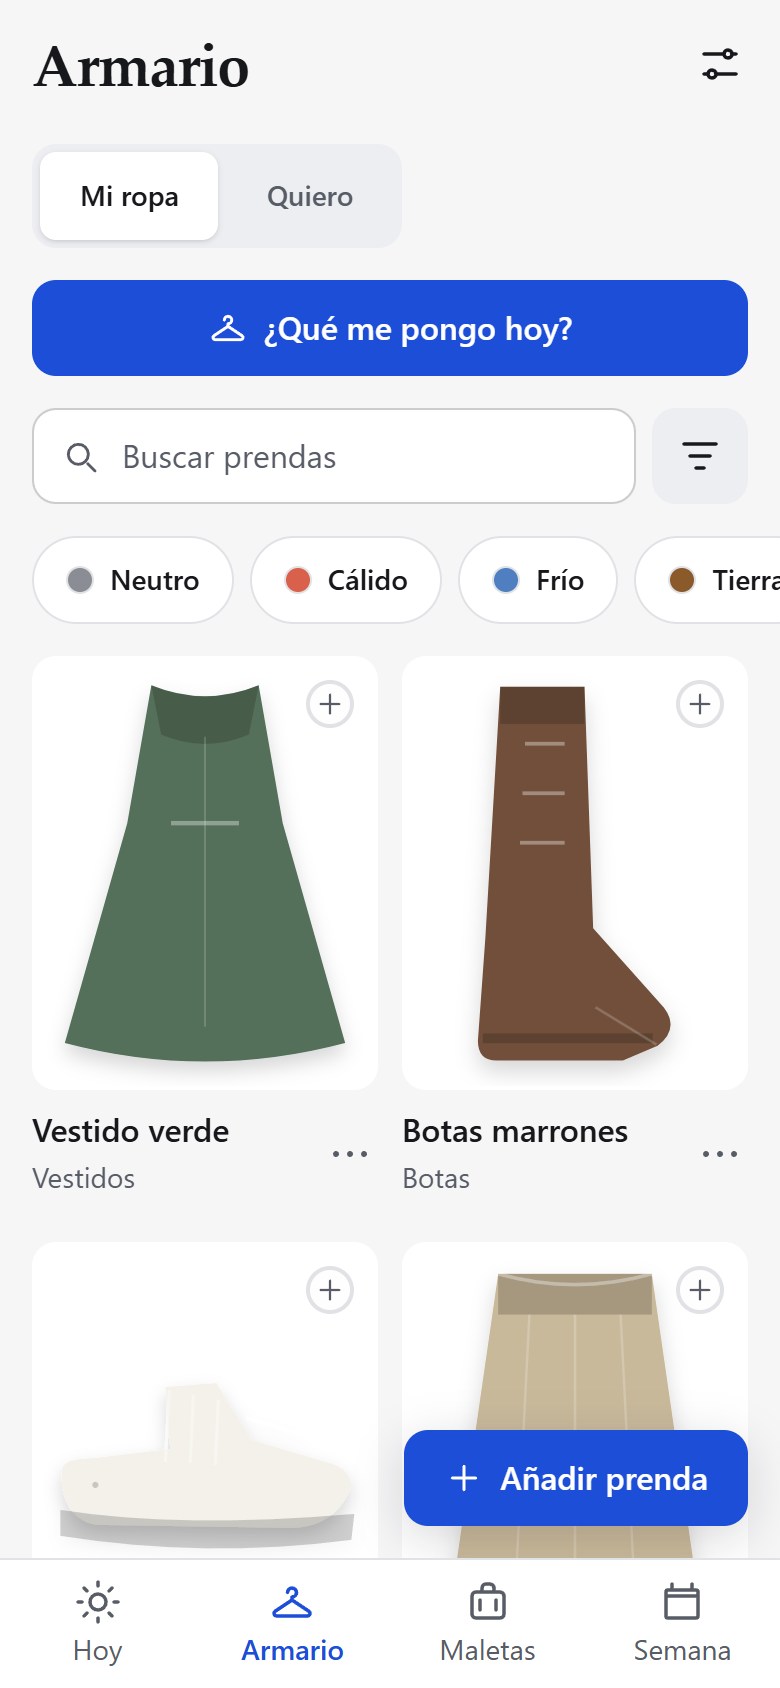
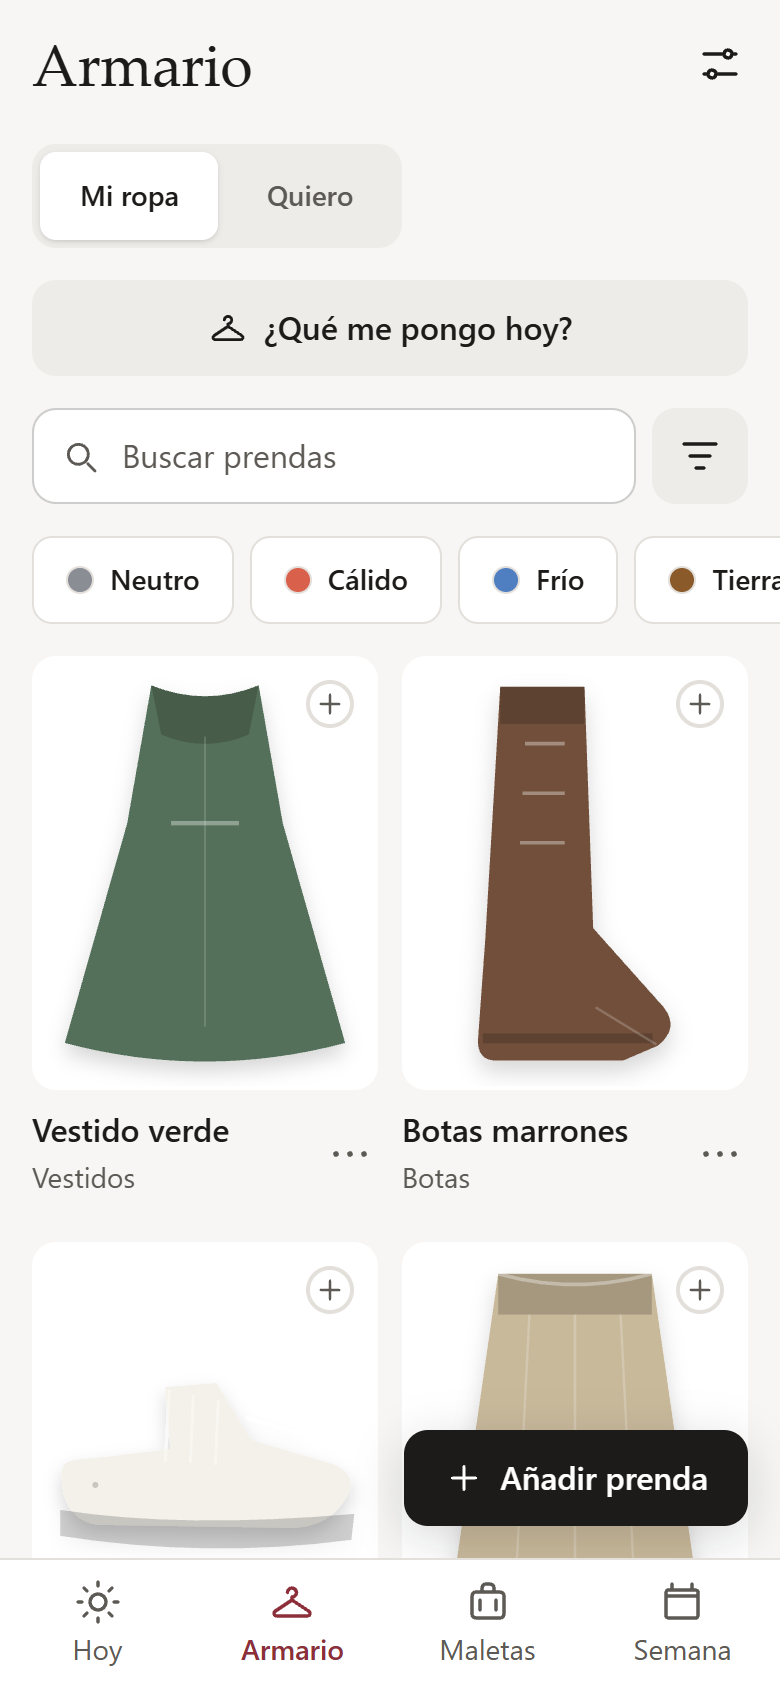
Pule la interfaz: tinta para la acción principal y granate solo en la selección
- Acento granate de hilo (#8c2f3a / #e08a92) en lugar del azul por defecto de Tailwind; el botón principal pasa a tinta
- Neutros apenas cálidos, como papel de patrón
- «¿Qué me pongo hoy?» como botón secundario: una sola acción principal por pantalla
- Filtros y valoraciones con radio de control (10 px) en vez de pastilla
- Titulares serif en 500 sin tracking negativo; sin etiquetas en mayúsculas espaciadas
- Etiquetas de la ficha como texto tranquilo; la hoja de Hoy no repite «Hoy»
- Capturas regeneradas con el e2e

diff --git a/src/index.css b/src/index.css
@@ -1,12 +1,13 @@
 /* Hallmark · shape: app screen · genre: modern-minimal · theme: custom
- * paper: #f6f6f7 · accent: #1d4ed8 · display: system-ui · body: system-ui
+ * paper: #f7f6f4 · accent: #8c2f3a (granate de hilo), primario: tinta · display: system-ui · body: system-ui
  * nav: tab bar abajo en móvil, pestañas en la cabecera en escritorio · signature: la rejilla de prendas · states: loading, empty, full
  * waive: 28a, las miniaturas de la rejilla siguen en carga diferida (arreglo de la auditoría)
  * axes: light+dark/sans/cobalt · posture: tool · contrast: pass · v2.0.0 */
 /* Hallmark · pre-emit critique: P4 H4 E4 S4 R4 V3 · weakest: V, la personalidad la ponen las fotos y no el marco, a propósito */
 @import "tailwindcss";
 
-/* Perletta. El marco es neutro, el color lo pone la ropa. Un acento para la acción principal y la selección.
+/* Perletta. El marco es neutro, apenas cálido como el papel de patrón; el color lo pone la ropa.
+   La acción principal va en tinta; el granate de hilo marca solo la selección y lo activo.
    Radios: 12 px en controles y fotos, 24 px en hojas, redondo en botones de icono y filtros. */
 @theme {
   --font-sans: system-ui, -apple-system, "Segoe UI", Roboto, sans-serif;
@@ -21,6 +22,8 @@
   --color-linea: var(--linea);
   --color-acento: var(--acento);
   --color-sobre-acento: var(--sobre-acento);
+  --color-primario: var(--primario);
+  --color-sobre-primario: var(--sobre-primario);
   --color-peligro: var(--peligro);
   --color-velo: var(--velo);
   --ease-suave: cubic-bezier(0.2, 0.8, 0.2, 1);
@@ -28,15 +31,17 @@
 }
 
 :root {
-  --papel: #f6f6f7;
+  --papel: #f7f6f4;
   --superficie: #ffffff;
-  --lamina: #eceef1;
+  --lamina: #eeece8;
   --foto: #ffffff;
-  --tinta: #17181b;
-  --tenue: #585c66;
-  --linea: #e0e2e6;
-  --acento: #1d4ed8;
+  --tinta: #1c1b19;
+  --tenue: #5d5a55;
+  --linea: #e3e0db;
+  --acento: #8c2f3a;
   --sobre-acento: #ffffff;
+  --primario: #1c1b19;
+  --sobre-primario: #ffffff;
   --peligro: #b3261e;
   --velo: rgb(10 12 16 / 0.45);
   --sombra: 0 6px 24px rgb(10 12 16 / 0.16);
@@ -44,15 +49,17 @@
 }
 
 :root.modo-oscuro {
-  --papel: #0f1012;
-  --superficie: #191b1e;
-  --lamina: #25282c;
-  --foto: #3b3f46;
-  --tinta: #f0f1f3;
-  --tenue: #a6abb4;
-  --linea: #2e3136;
-  --acento: #8ab0ff;
-  --sobre-acento: #0b1530;
+  --papel: #11100f;
+  --superficie: #1b1a18;
+  --lamina: #272523;
+  --foto: #3d3a36;
+  --tinta: #f1efea;
+  --tenue: #aaa59e;
+  --linea: #302d2a;
+  --acento: #e08a92;
+  --sobre-acento: #2a0f13;
+  --primario: #f1efea;
+  --sobre-primario: #1c1b19;
   --peligro: #ff8a80;
   --velo: rgb(0 0 0 / 0.65);
   --sombra: 0 6px 24px rgb(0 0 0 / 0.5);
@@ -133,8 +140,8 @@ body {
     white-space: nowrap;
   }
   .boton-primario {
-    background: var(--acento);
-    color: var(--sobre-acento);
+    background: var(--primario);
+    color: var(--sobre-primario);
   }
   .boton-secundario {
     background: var(--lamina);
@@ -186,6 +193,7 @@ body {
   }
   .titular {
     font-family: var(--font-display);
+    font-weight: 500;
     letter-spacing: -0.01em;
     text-wrap: balance;
   }
@@ -194,7 +202,7 @@ body {
     padding-right: 3rem;
     font-family: var(--font-display);
     font-size: 1.5rem;
-    font-weight: 700;
+    font-weight: 500;
     letter-spacing: -0.01em;
     line-height: 1.25;
     overflow-wrap: break-word;

diff --git a/src/App.jsx b/src/App.jsx
@@ -39,7 +39,7 @@ function pintarTema(oscuro) {
   // Quitar 'media' evita que el navegador imponga el suyo y deje las dos etiquetas descoordinadas.
   document.querySelectorAll('meta[name="theme-color"]').forEach(meta => {
     meta.removeAttribute('media')
-    meta.setAttribute('content', oscuro ? '#0f1012' : '#f6f6f7')
+    meta.setAttribute('content', oscuro ? '#11100f' : '#f7f6f4')
   })
 }
 
@@ -420,7 +420,7 @@ function Armario({ sesion }) {
       <div className="h-full flex flex-col" inert={!!(modalActivo || dialogoGlobal)}>
         <header className="shrink-0 pt-safe md:border-b md:border-linea md:bg-superficie">
           <div className="max-w-6xl mx-auto px-4 md:px-8 h-16 flex items-center justify-between gap-4">
-            <h1 className="titular min-w-0 text-[1.85rem] md:text-2xl font-bold tracking-tight">
+            <h1 className="titular min-w-0 text-[1.85rem] md:text-2xl">
               <span className="md:hidden"><TituloSeccion respaldo={pestañaActiva} /></span>
               <span className="hidden md:inline">Perletta</span>
             </h1>
@@ -442,7 +442,7 @@ function Armario({ sesion }) {
         <main className="flex-1 min-h-0 w-full max-w-6xl mx-auto overflow-hidden">
           <div ref={pistaRef} className="flex w-[300%] h-full">
             <section aria-label="Armario" inert={pestañaActiva !== 'ropa'} className={panel}>
-              <h2 className="titular max-md:sr-only shrink-0 text-3xl font-bold tracking-tight min-h-12 mb-5">Armario</h2>
+              <h2 className="titular max-md:sr-only shrink-0 text-3xl min-h-12 mb-5">Armario</h2>
               <GaleriaArmario limpiarSeleccion={outfitsGuardados} onCrearConjunto={iniciarCreacionConjunto} onEditarPrenda={iniciarEdicion} onAbrirFicha={abrirFicha} onQueMePongo={() => { setPrendaFijada(null); abrirModal('que_me_pongo'); vibrar(30) }} onAnadirPrenda={() => { setModoDeseo(false); abrirModal('formulario'); vibrar(30) }} onAnadirDeseo={() => { setModoDeseo(true); abrirModal('formulario'); vibrar(30) }} onVerOutfitsDeseo={(d) => { setDeseoElegido(d); abrirModal('deseo_outfits'); vibrar(20) }} onAbrirFiltros={() => abrirModal('filtros')} onQuitarFiltro={() => setFiltroActual(null)} mostrarToast={mostrarToast} filtroCategoria={filtroActual} setDialogoGlobal={solicitarConfirmacionGlobal} onCambio={recargarVistas} />
             </section>
             <section aria-label="Maletas" inert={pestañaActiva !== 'conjuntos'} className={panel}>

diff --git a/src/components/VistaSemanas.jsx b/src/components/VistaSemanas.jsx
@@ -301,7 +301,7 @@ export default function VistaSemanas({ activa = false, recarga = 0, onCrearSeman
               <Icono nombre="volver" />
             </button>
             <h2 className="flex-1 min-w-0 flex">
-              {nombreEditable('semana', semanaActiva.id, semanaActiva.nombre, 'titular min-h-11 max-w-full text-2xl md:text-3xl font-bold tracking-tight')}
+              {nombreEditable('semana', semanaActiva.id, semanaActiva.nombre, 'titular min-h-11 max-w-full text-2xl md:text-3xl')}
             </h2>
             <button onClick={eliminarSemana} aria-label={`Eliminar ${semanaActiva.nombre}`} className="boton-icono -mr-2">
               <Icono nombre="borrar" />
@@ -326,8 +326,8 @@ export default function VistaSemanas({ activa = false, recarga = 0, onCrearSeman
                     activo ? 'bg-acento text-sobre-acento font-semibold' : 'bg-lamina text-tinta'
                   }`}
                 >
-                  <span className="uppercase tracking-wide">{DIAS[i]}</span>
-                  <span className="text-base font-bold leading-none">{dia.getDate()}</span>
+                  <span>{DIAS[i]}</span>
+                  <span className="text-base font-semibold leading-none tabular-nums">{dia.getDate()}</span>
                   <span className={`w-1 h-1 rounded-full ${lleno ? (activo ? 'bg-sobre-acento' : 'bg-acento') : 'bg-transparent'}`} />
                 </button>
               )
@@ -336,7 +336,7 @@ export default function VistaSemanas({ activa = false, recarga = 0, onCrearSeman
         </div>
       ) : (
         <>
-          <h2 className="titular max-md:sr-only shrink-0 text-3xl font-bold tracking-tight min-h-12 mb-5">Semana</h2>
+          <h2 className="titular max-md:sr-only shrink-0 text-3xl min-h-12 mb-5">Semana</h2>
           <BotonQueMePongo onClick={onQueMePongo} className="mb-4 md:self-start" />
         </>
       )}

diff --git a/src/components/Estadisticas.jsx b/src/components/Estadisticas.jsx
@@ -27,7 +27,7 @@ function Fila({ prenda, dato, children }) {
 function Bloque({ titulo, vacio, hijos, children }) {
   return (
     <section className="flex flex-col gap-1">
-      <h3 className="text-lg font-bold">{titulo}</h3>
+      <h3 className="text-lg font-semibold">{titulo}</h3>
       {hijos === 0 ? <p className="text-sm text-tenue">{vacio}</p> : <ul className="divide-y divide-linea">{children}</ul>}
     </section>
   )
@@ -87,7 +87,7 @@ export default function Estadisticas({ mostrarToast, onProponer, onCambio }) {
       <div className="grid grid-cols-3 gap-2">
         {[['Prendas', e.total], ['Usos', e.usosTotales], ['Invertido', e.conPrecio ? dinero(e.inversion) : '—']].map(([etiqueta, valor]) => (
           <div key={etiqueta} className="rounded-xl bg-lamina p-3 text-center">
-            <p className="text-xl font-bold tabular-nums">{valor}</p>
+            <p className="text-xl font-semibold tabular-nums">{valor}</p>
             <p className="text-xs text-tenue">{etiqueta}</p>
           </div>
         ))}
@@ -96,7 +96,7 @@ export default function Estadisticas({ mostrarToast, onProponer, onCambio }) {
 
       {huecos.length > 0 && (
         <section className="flex flex-col gap-2" aria-labelledby="huecos-titulo">
-          <h3 id="huecos-titulo" className="text-lg font-bold">Huecos del armario</h3>
+          <h3 id="huecos-titulo" className="text-lg font-semibold">Huecos del armario</h3>
           <ul className="rounded-xl bg-lamina divide-y divide-linea px-3">
             {huecos.map((h) => (
               <li key={`${h.hueco}-${h.color}`} className="flex items-center gap-3 py-2.5">

diff --git a/src/components/AsistenteMaleta.jsx b/src/components/AsistenteMaleta.jsx
@@ -21,7 +21,7 @@ const MANUAL = [
 ]
 
 const chip = (activo) =>
-  `shrink-0 min-h-11 px-4 rounded-full border text-sm font-medium whitespace-nowrap ${activo ? 'bg-acento text-sobre-acento border-acento' : 'bg-superficie border-linea text-tinta'}`
+  `shrink-0 min-h-11 px-4 rounded-[10px] border text-sm font-medium whitespace-nowrap ${activo ? 'bg-acento text-sobre-acento border-acento' : 'bg-superficie border-linea text-tinta'}`
 
 function comoConjunto(outfit) {
   return {
@@ -178,7 +178,7 @@ export default function AsistenteMaleta({ maleta, mostrarToast, onHecho }) {
             <p className="py-6 text-center text-tenue">Con tu armario no he podido montar ningún outfit. Hace falta al menos una prenda de arriba y otra de abajo (o un vestido).</p>
           ) : (
             <>
-              <p className="text-lg font-bold">{resultado.resumen.prendas} prendas → {resultado.resumen.outfits} outfits</p>
+              <p className="text-lg font-semibold">{resultado.resumen.prendas} prendas → {resultado.resumen.outfits} outfits</p>
               {resultado.resumen.repetidos > 0 && (
                 <p className="text-sm text-tenue">Tu armario no da para {resultado.resumen.outfits} combinaciones distintas: {resultado.resumen.repetidos} outfits se repiten.</p>
               )}

diff --git a/src/components/CamposEtiquetas.jsx b/src/components/CamposEtiquetas.jsx
@@ -4,7 +4,7 @@ import {
 } from '../lib/etiquetas'
 
 const chip = (activo) =>
-  `min-h-11 px-4 rounded-full border text-sm font-medium ${activo ? 'bg-acento text-sobre-acento border-acento' : 'bg-superficie border-linea text-tinta'}`
+  `min-h-11 px-4 rounded-[10px] border text-sm font-medium ${activo ? 'bg-acento text-sobre-acento border-acento' : 'bg-superficie border-linea text-tinta'}`
 
 const mayuscula = (t) => t.charAt(0).toUpperCase() + t.slice(1)
 
@@ -48,7 +48,7 @@ export default function CamposEtiquetas({ valor, onChange, sugerido = false, ana
               </span>
             ))}
             {valor.colores.length < 3 && (
-              <label className="inline-flex items-center justify-center min-h-11 px-4 rounded-full border border-dashed border-linea text-sm text-tenue cursor-pointer">
+              <label className="inline-flex items-center justify-center min-h-11 px-4 rounded-[10px] border border-dashed border-linea text-sm text-tenue cursor-pointer">
                 + Color
                 <input
                   type="color"

diff --git a/src/components/FormularioSemana.jsx b/src/components/FormularioSemana.jsx
@@ -95,7 +95,7 @@ export default function FormularioSemana({ onExito, onCancelar }) {
       </div>
 
       <div className="grid grid-cols-7 gap-1 text-center text-xs font-semibold text-tenue" aria-hidden="true">
-        {DIAS.map((dia) => <span key={dia} className="py-1 uppercase">{dia}</span>)}
+        {DIAS.map((dia) => <span key={dia} className="py-1">{dia}</span>)}
       </div>
 
       <div className="grid grid-cols-7 gap-1 -mt-2">
@@ -112,7 +112,7 @@ export default function FormularioSemana({ onExito, onCancelar }) {
               aria-pressed={seleccionado}
               className={`relative h-10 rounded-lg text-sm transition-colors ${
                 seleccionado
-                  ? 'bg-acento text-sobre-acento font-bold'
+                  ? 'bg-acento text-sobre-acento font-semibold'
                   : enSemana
                     ? 'bg-lamina text-tinta font-semibold'
                     : 'text-tinta hover:bg-lamina'

diff --git a/index.html b/index.html
@@ -5,8 +5,8 @@
     <link rel="icon" type="image/svg+xml" href="/favicon.svg" />
     <link rel="apple-touch-icon" href="/apple-touch-icon.png" />
     <meta name="viewport" content="width=device-width, initial-scale=1.0, viewport-fit=cover" />
-    <meta name="theme-color" id="meta-tema" content="#f6f6f7" media="(prefers-color-scheme: light)" />
-    <meta name="theme-color" id="meta-tema-oscuro" content="#0f1012" media="(prefers-color-scheme: dark)" />
+    <meta name="theme-color" id="meta-tema" content="#f7f6f4" media="(prefers-color-scheme: light)" />
+    <meta name="theme-color" id="meta-tema-oscuro" content="#11100f" media="(prefers-color-scheme: dark)" />
     <meta name="apple-mobile-web-app-capable" content="yes" />
     <meta name="apple-mobile-web-app-status-bar-style" content="default" />
     <meta name="description" content="Tu armario y tus maletas: qué tienes, qué te pones y qué te llevas." />

diff --git a/src/components/Acceso.jsx b/src/components/Acceso.jsx
@@ -74,9 +74,9 @@ export default function Acceso() {
   return (
     <div className="min-h-dvh flex flex-col justify-center bg-papel text-tinta font-sans px-6 py-10 pt-safe pb-safe">
       <div className="w-full max-w-sm mx-auto">
-        <p className="text-xs font-semibold tracking-[0.18em] uppercase text-tenue">Perletta</p>
-        <h1 className="text-3xl font-bold tracking-tight mt-2 mb-8">
-          {creando ? 'Tu armario, desde cero.' : 'Tu armario, solo tuyo.'}
+        <p className="titular text-lg text-tenue">Perletta</p>
+        <h1 className="titular text-3xl mt-2 mb-8">
+          {creando ? 'Tu armario, desde cero' : 'Tu armario, solo tuyo'}
         </h1>
 
         <form onSubmit={enviar} className="flex flex-col gap-4">

diff --git a/src/components/DialogoGlobal.jsx b/src/components/DialogoGlobal.jsx
@@ -3,7 +3,7 @@ export default function DialogoGlobal({ dialogo, onCerrar }) {
   return (
     <div className="fixed inset-0 bg-velo z-200 flex items-center justify-center p-4">
       <div role="alertdialog" aria-modal="true" aria-labelledby="titulo-dialogo" className="aparece bg-superficie rounded-3xl p-5 w-full max-w-sm max-h-full overflow-y-auto">
-        <h3 id="titulo-dialogo" className="text-xl font-bold leading-snug mb-5 min-w-0 wrap-break-word">{dialogo.mensaje}</h3>
+        <h3 id="titulo-dialogo" className="text-xl font-semibold leading-snug mb-5 min-w-0 wrap-break-word">{dialogo.mensaje}</h3>
         {dialogo.contenidoAdicional}
         <div className="flex flex-col gap-2">
           <button

diff --git a/src/components/NuevaContrasena.jsx b/src/components/NuevaContrasena.jsx
@@ -36,8 +36,8 @@ export default function NuevaContrasena({ onListo }) {
   return (
     <div className="min-h-dvh flex flex-col justify-center bg-papel text-tinta font-sans px-6 py-10 pt-safe pb-safe">
       <div className="w-full max-w-sm mx-auto">
-        <p className="text-xs font-semibold tracking-[0.18em] uppercase text-tenue">Perletta</p>
-        <h1 className="text-3xl font-bold tracking-tight mt-2 mb-8">Nueva contraseña</h1>
+        <p className="titular text-lg text-tenue">Perletta</p>
+        <h1 className="titular text-3xl mt-2 mb-8">Nueva contraseña</h1>
 
         {listo ? (
           <p role="status" className="text-sm text-tenue">Contraseña cambiada. Entrando…</p>

diff --git a/src/components/GaleriaArmario.jsx b/src/components/GaleriaArmario.jsx
@@ -21,7 +21,7 @@ import ListaDeseos from './ListaDeseos'
 import Miniatura from './Miniatura'
 
 const chipFiltro = (activo) =>
-  `shrink-0 min-h-11 px-4 rounded-full border text-sm font-medium whitespace-nowrap ${activo ? 'bg-acento text-sobre-acento border-acento' : 'bg-superficie border-linea text-tinta'}`
+  `shrink-0 min-h-11 px-4 rounded-[10px] border text-sm font-medium whitespace-nowrap ${activo ? 'bg-acento text-sobre-acento border-acento' : 'bg-superficie border-linea text-tinta'}`
 
 // Una tarjeta del armario. Un toque abre la ficha; la pulsación larga (o el clic
 // derecho) abre el menú de siempre. En modo selección, el toque sigue marcando.
